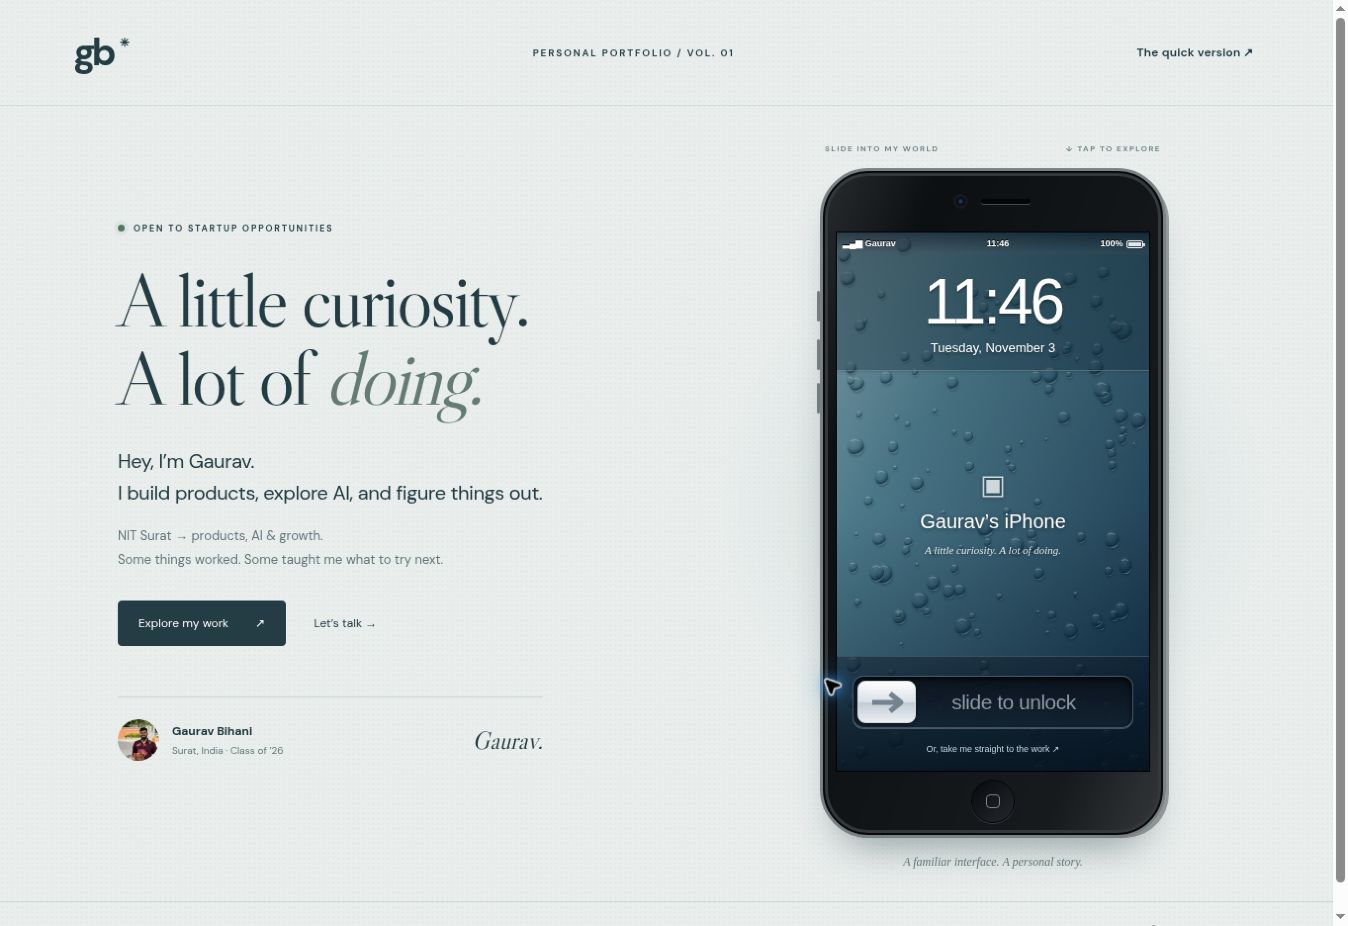
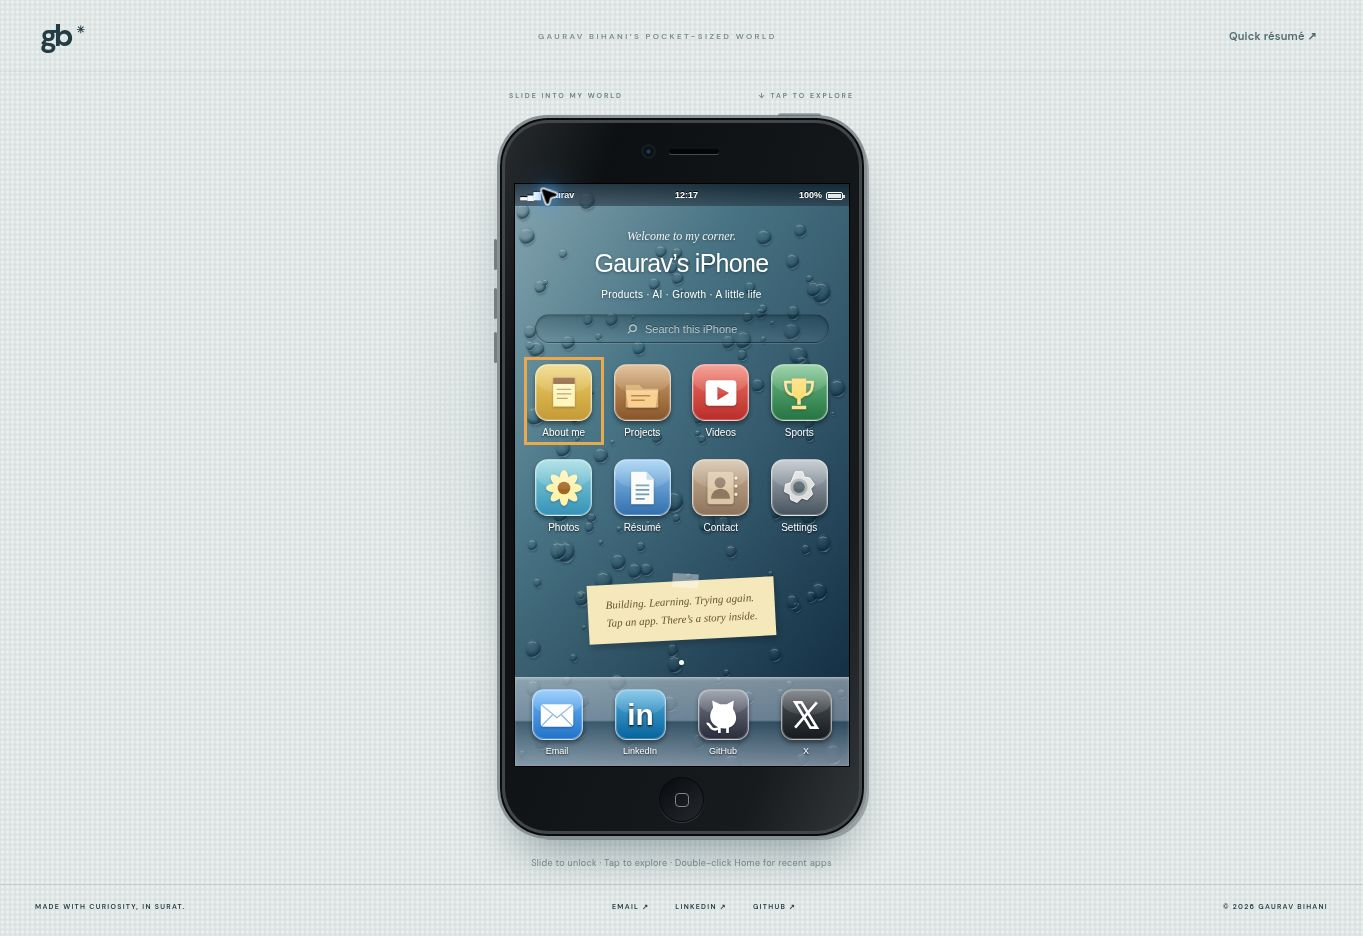
Document centered iPhone interactions and verified responsive checks

diff --git a/README.md b/README.md
@@ -27,3 +27,9 @@ Starts on a classic iPhone-inspired water-droplet wallpaper at every fresh page 
 ![Retro iPhone portfolio preview](docs/preview.jpg)
 
 The complete website, including optimized user-approved personal media and résumé, is included in this public repository.
+
+## Centered iPhone interface
+
+The desktop layout now centers the phone, with the same full-screen experience on mobile. Natural-language portfolio search runs locally against an index of the supplied information (no AI API or free-form chatbot). Search is available from Home or Ctrl/Cmd+K. Double-click Home or use the app toolbar to open Recent Apps. Notes has three readable entries; Projects has list/detail navigation; Contacts and Photos use dedicated layouts.
+
+Reference: public HTML and shipped JavaScript at https://ishaangoel.in were inspected for OS-style interaction patterns. This portfolio uses an independent implementation and the user’s own assets, not a copy of Ishaan’s source or personal content.

diff --git a/docs/interaction-checks.md b/docs/interaction-checks.md
@@ -12,3 +12,7 @@ Verified in the managed Chrome preview:
 - Camera roll opens photo details; Next advances to the next image.
 
 Native range dragging and gallery swiping use browser pointer interactions; the automated checks exercised keyboard unlocking and photo buttons. Reduced-motion preferences disable decorative animations and crossfades. The lock screen is a visual interaction, not an authentication boundary.
+
+## Centered interface update
+
+Verified in desktop Chrome and a 390px responsive frame: natural-language sports and contact searches, Enter-to-open a result, recent apps, double-click Home, project list/detail/back, and Notes tab navigation. The core scripts pass `node --check`. Search uses a local keyword/intent index with factual, predefined results.
